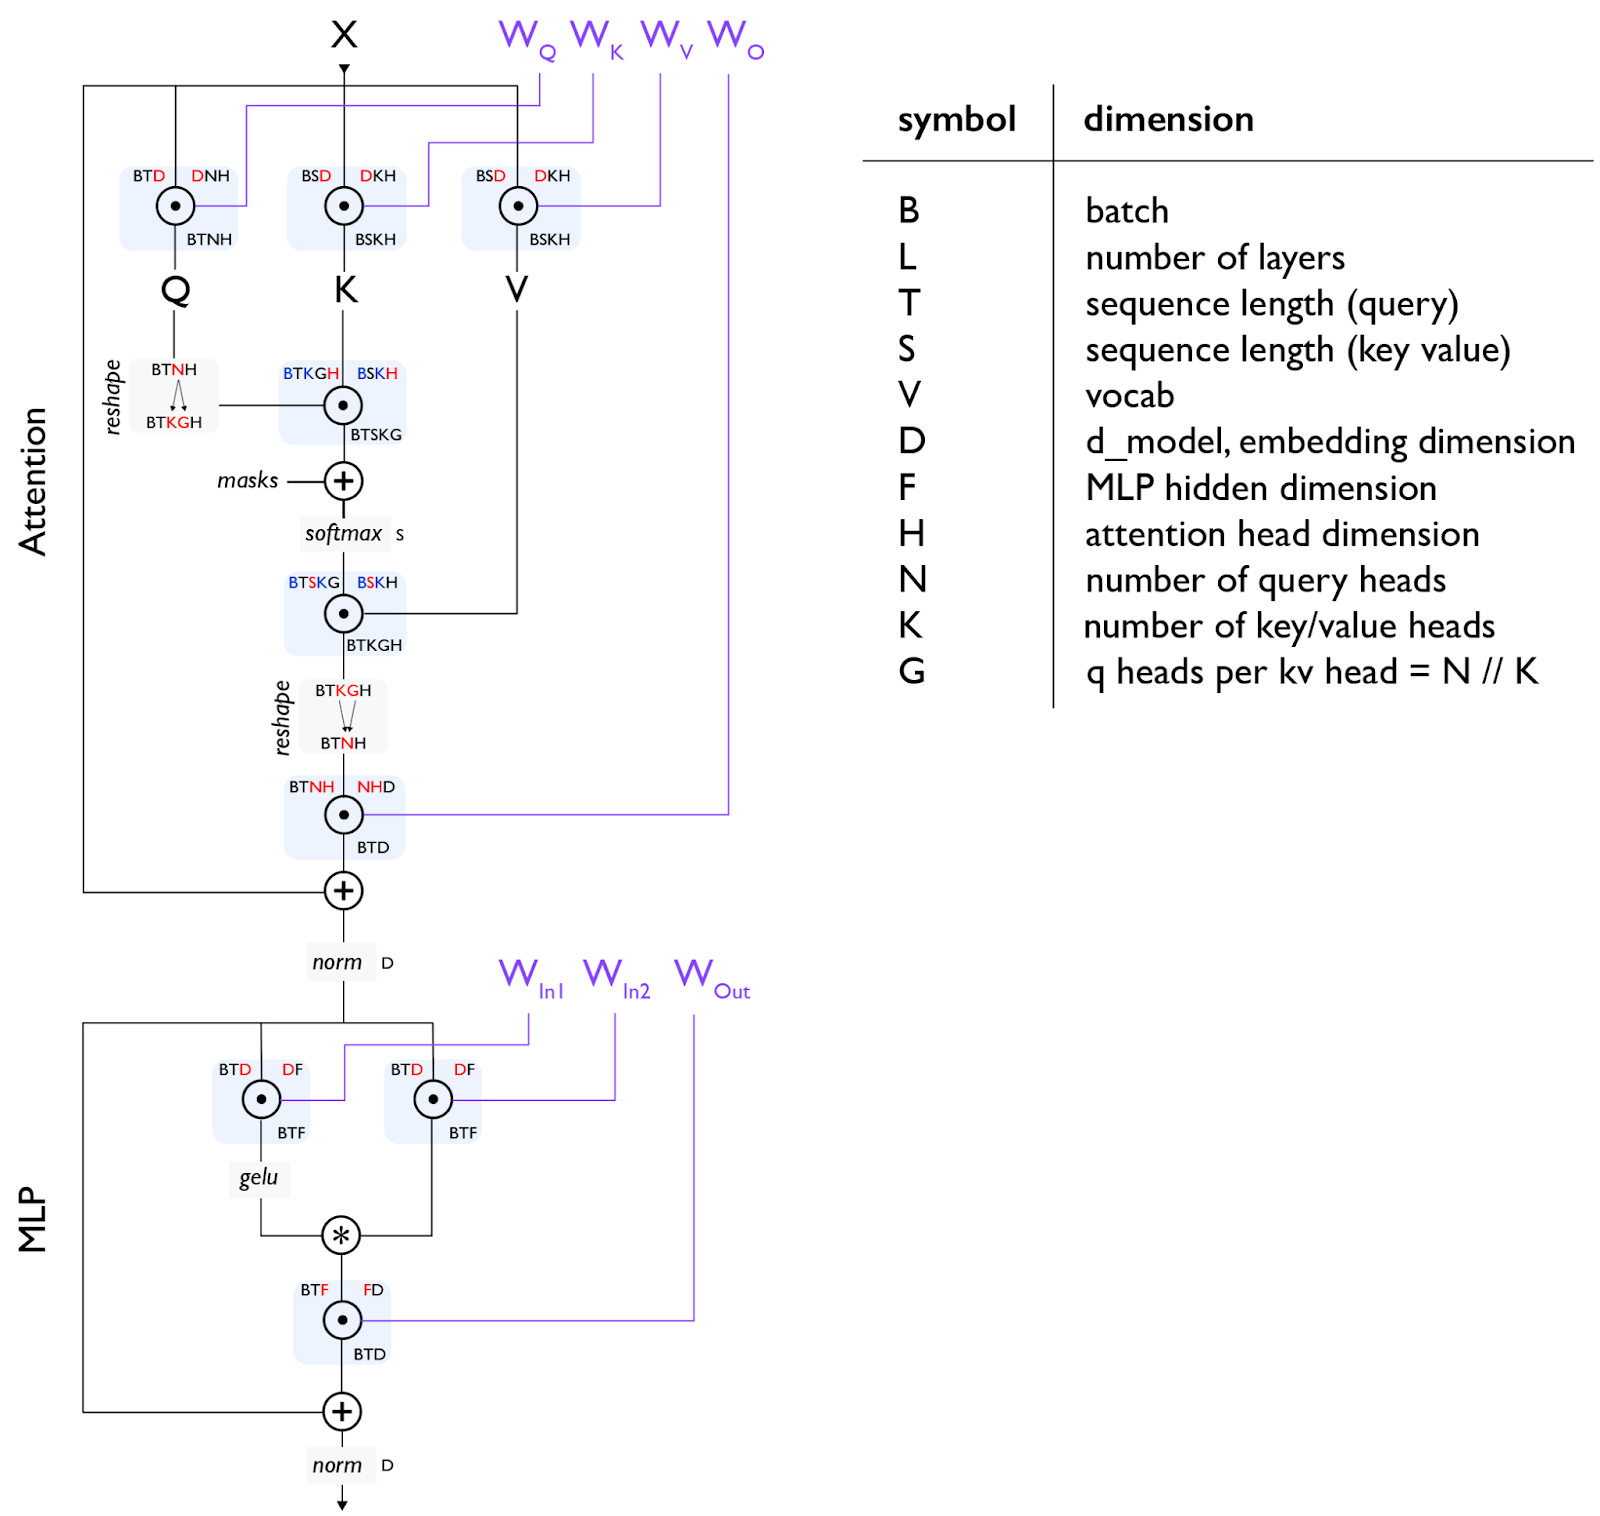
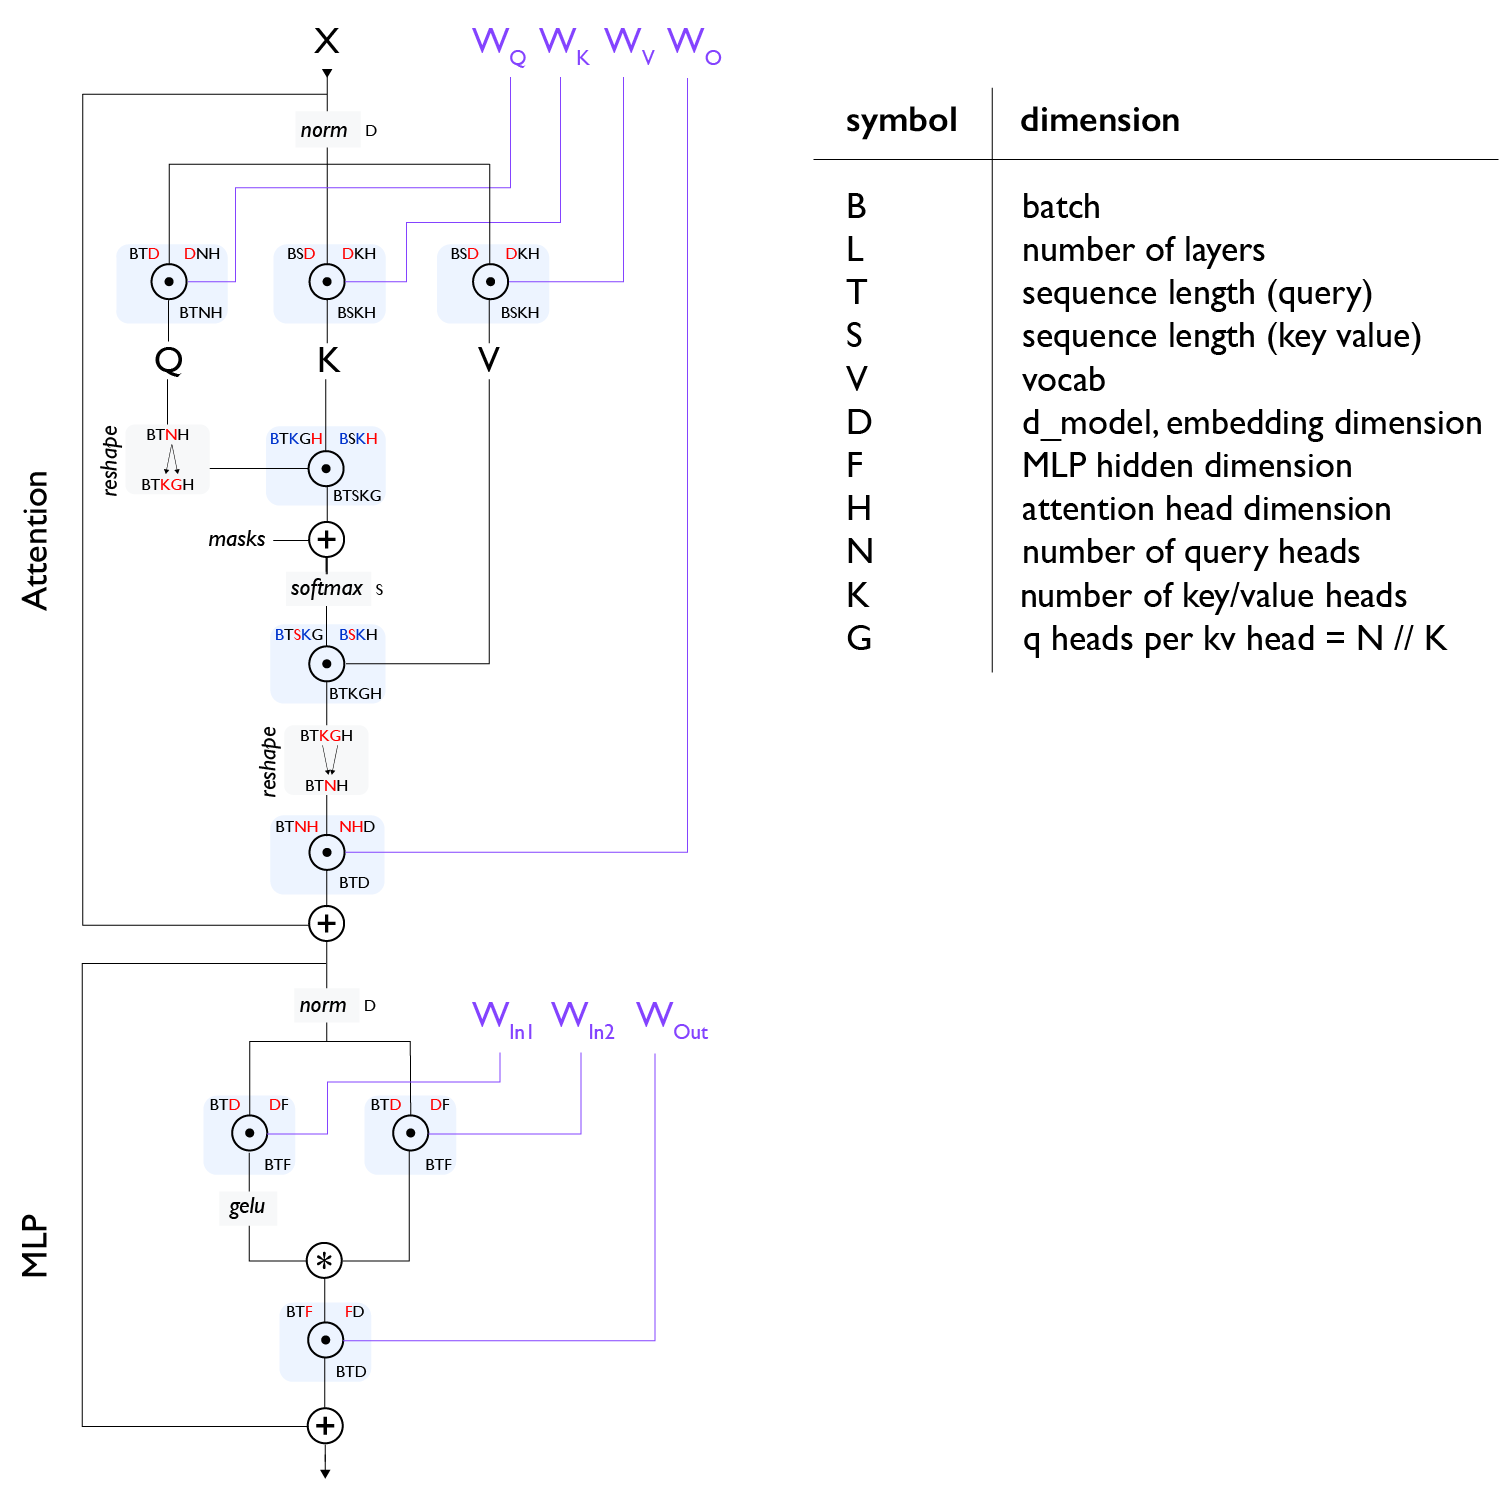
Update the transformer architecture diagram to prenorm.
The original figure uses the transformer paper norm scheme which isn't representative
of any modern public models, so fix that.

diff --git a/transformers.md b/transformers.md
@@ -161,7 +161,7 @@ Here's a basic diagram of the Transformer decoder architecture:
 
 **Note 2 [MHA attention]**: With self-attention, T and S are the same but for cross-attention they may be different. With vanilla Multi-Head Attention (MHA), N and K are the same while for [Multi-Query Attention](https://arxiv.org/abs/1911.02150) (MQA)<d-cite key="mqa"></d-cite> K=1 and for [Grouped MQA](https://arxiv.org/abs/2305.13245) (GMQA)<d-cite key="gmqa"></d-cite> K merely has to divide N.
 
-**Note 3 [pre-norm vs. post-norm]:** The above diagram shows what is known as a "post-norm" Transformer in which the layernorm occurs after the residual connection, i.e. `norm(x + attn(x))`. This matches the original Transformer paper, but most modern Transformers today use a "pre-norm" architecture in which the norm occurs before the residual connection, usually as `x + attn(norm(x))`. Models like LLaMA-3 use this today.
+**Note 3 [pre-norm vs. post-norm]:** The above diagram shows what is known as a "pre-norm" architecture in which the norm occurs before the residual connection, usually as `x + attn(norm(x))`. Models like LLaMA-3 use this today.  The original Transformer paper used a "post-norm" architecture in which the layernorm occurs after the residual connection, i.e. `norm(x + attn(x))`.
 
 ## Global FLOPs and Params Calculation
 